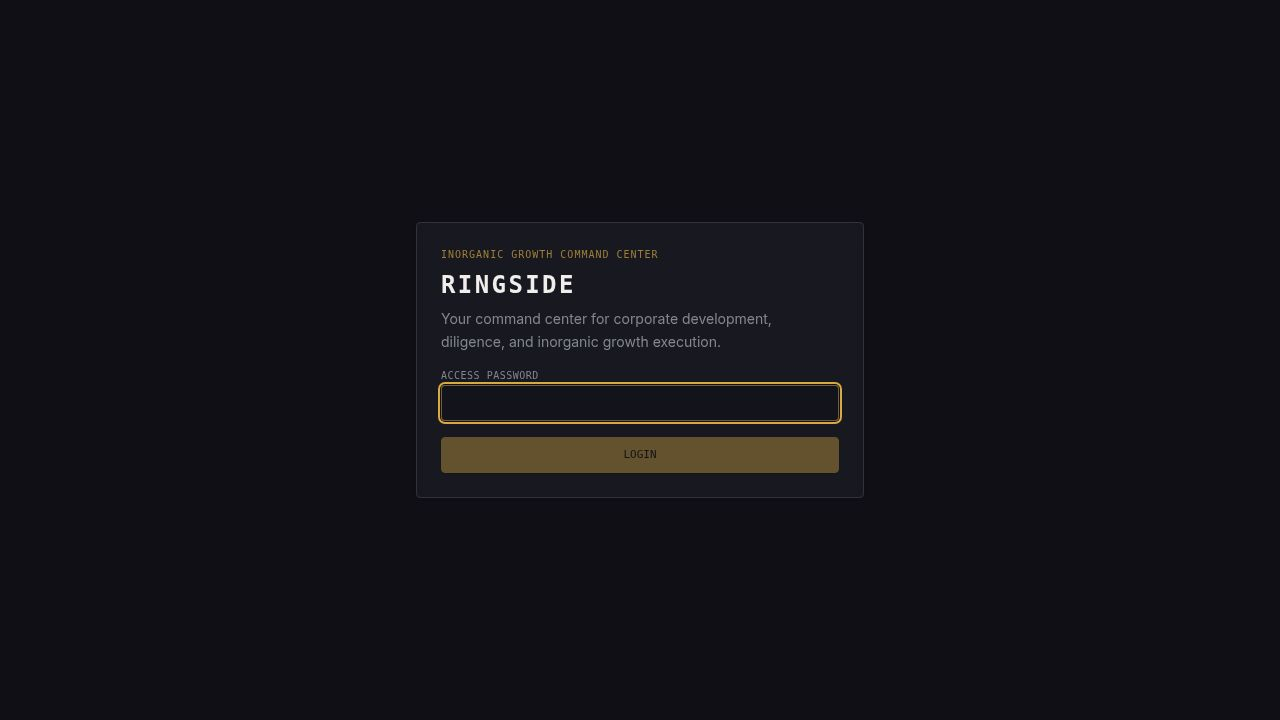
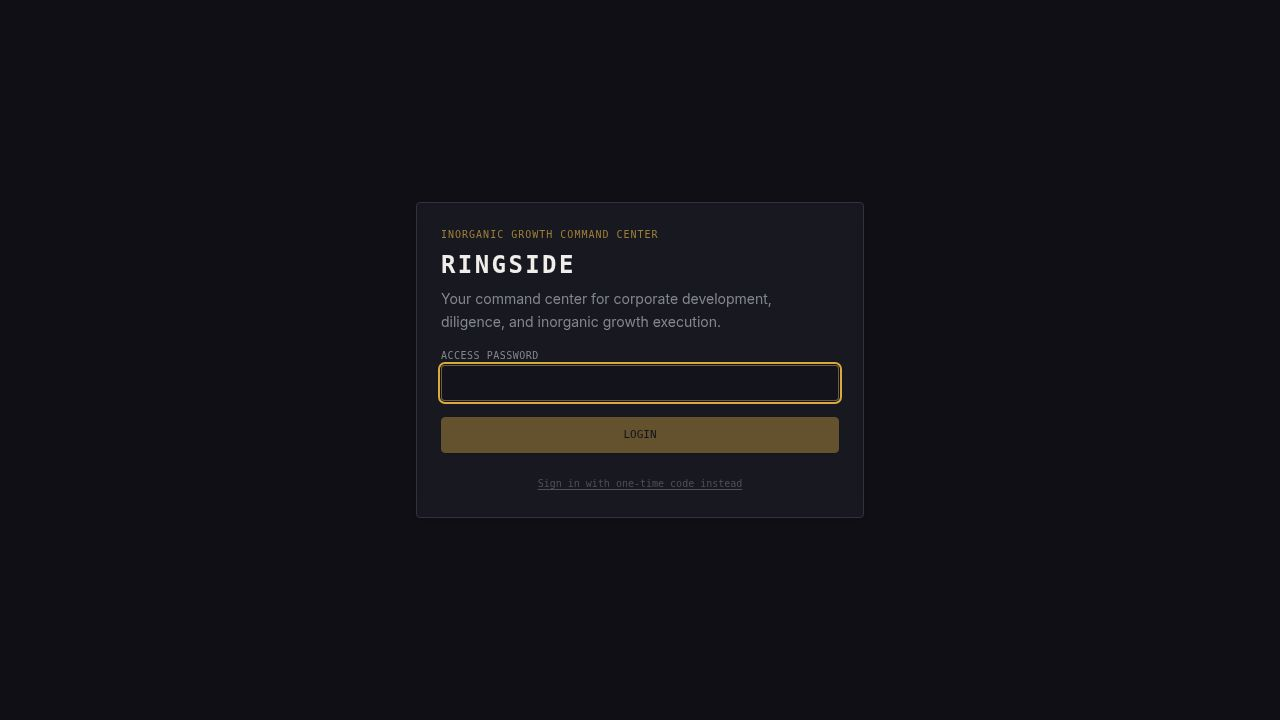
Task #66: NDA Register + Regulatory Clearance Map (Phase 8F) — polish pass
Core feature was already implemented in a prior session. This commit adds
meaningful UX improvements to the Compliance tab (target-detail-compliance.tsx):

## Changes made
- Added `formatDate()` helper: ISO date strings now display as human-readable
  "15 Jan 2024" format throughout NDA Register and Regulatory Clearance Map
- Added `daysFromNow()` helper: precise day counters in urgency badges
  - NDA: "Expires in 7d", "Expires today", "Expired 3d ago"
  - Clearance: "12d overdue" instead of generic "Overdue"
- Added `ndaUrgencyScore()` and `clearanceUrgencyScore()` sort helpers
- NDA list now sorts expired → expiring → active (most urgent items surface first)
- Clearance list now sorts blocked → overdue → pending/filed → cleared/not-required
- Blocked clearances now get distinct red background (vs orange for overdue)
- Expiry date text is colored amber (expiring) or red (expired) for visual emphasis

## Pre-existing (not changed)
- Backend routes: nda-records.ts, regulatory-clearances.ts, targets.ts GET/POST
- DB schema: nda_records and regulatory_clearances tables (startup migration)
- OpenAPI spec: compliance tag, 6 paths, 6 schemas; codegen output
- Frontend: 8th "Compliance" tab in Target Detail, global alert banner, full CRUD dialogs
- useComplianceBadgeCount hook for tab badge

## No deviations
Follow-ups proposed: #90 (NDA expiry notifications), #91 (compliance review page), #92 (export to PDF/Excel)

Replit-Task-Id: b7cb245f-85e5-4646-aebd-d832e9a24b72

Changed region(s): [[0.3438, 0.3056, 0.6562, 0.7028]]

diff --git a/artifacts/growth-os/src/pages/target-detail-compliance.tsx b/artifacts/growth-os/src/pages/target-detail-compliance.tsx
@@ -67,6 +67,32 @@ function isOverdueClearing(item: RegulatoryClearance): boolean {
   return new Date(item.targetClearanceDate) < new Date();
 }
 
+function daysFromNow(dateStr: string | null | undefined): number | null {
+  if (!dateStr) return null;
+  const d = new Date(dateStr);
+  const now = new Date();
+  return Math.round((d.getTime() - now.getTime()) / (1000 * 60 * 60 * 24));
+}
+
+function formatDate(dateStr: string | null | undefined): string {
+  if (!dateStr) return "";
+  const d = new Date(dateStr);
+  return d.toLocaleDateString("en-GB", { day: "numeric", month: "short", year: "numeric" });
+}
+
+function ndaUrgencyScore(nda: NdaRecord): number {
+  if (isExpired(nda.expiryDate) || nda.status === "Expired") return 0;
+  if (isExpiringWithin30Days(nda.expiryDate)) return 1;
+  return 2;
+}
+
+function clearanceUrgencyScore(clr: RegulatoryClearance): number {
+  if (clr.status === "Blocked") return 0;
+  if (isOverdueClearing(clr)) return 1;
+  if (clr.status === "Pending" || clr.status === "Filed") return 2;
+  return 3;
+}
+
 function ndaStatusColor(nda: NdaRecord): string {
   if (isExpired(nda.expiryDate) || nda.status === "Expired") return "destructive";
   if (isExpiringWithin30Days(nda.expiryDate)) return "secondary";
@@ -488,9 +514,10 @@ export function ComplianceTab({ targetId }: ComplianceTabProps) {
             </div>
           ) : (
             <div className="border rounded-lg divide-y divide-border overflow-hidden mt-1">
-              {ndas.map(nda => {
+              {[...ndas].sort((a, b) => ndaUrgencyScore(a) - ndaUrgencyScore(b)).map(nda => {
                 const expiring = isExpiringWithin30Days(nda.expiryDate);
                 const expired  = isExpired(nda.expiryDate) || nda.status === "Expired";
+                const days     = daysFromNow(nda.expiryDate);
                 return (
                   <div key={nda.id} className={`flex items-start gap-3 px-4 py-3 bg-card ${expired ? "bg-destructive/5" : expiring ? "bg-amber-500/5" : ""}`}>
                     <div className="flex-1 min-w-0">
@@ -498,12 +525,27 @@ export function ComplianceTab({ targetId }: ComplianceTabProps) {
                         <span className="font-medium text-sm truncate">{nda.counterparty || "—"}</span>
                         <Badge variant={ndaStatusColor(nda) as "destructive" | "secondary" | "outline"} className="text-xs">{nda.status}</Badge>
                         <Badge variant="outline" className="text-xs">{nda.scope}</Badge>
-                        {expiring && !expired && <Badge className="text-xs bg-amber-500 text-white border-0 gap-1"><Clock size={9} />Expiring in ≤30d</Badge>}
-                        {expired   && <Badge variant="destructive" className="text-xs gap-1"><AlertTriangle size={9} />Expired</Badge>}
+                        {expiring && !expired && days !== null && (
+                          <Badge className="text-xs bg-amber-500 text-white border-0 gap-1">
+                            <Clock size={9} />{days === 0 ? "Expires today" : `Expires in ${days}d`}
+                          </Badge>
+                        )}
+                        {expired && days !== null && (
+                          <Badge variant="destructive" className="text-xs gap-1">
+                            <AlertTriangle size={9} />{Math.abs(days)}d ago
+                          </Badge>
+                        )}
+                        {expired && days === null && (
+                          <Badge variant="destructive" className="text-xs gap-1"><AlertTriangle size={9} />Expired</Badge>
+                        )}
                       </div>
                       <div className="text-xs text-muted-foreground flex flex-wrap gap-x-4 gap-y-0.5">
-                        {nda.effectiveDate && <span>Effective: {nda.effectiveDate}</span>}
-                        {nda.expiryDate    && <span>Expires: {nda.expiryDate}</span>}
+                        {nda.effectiveDate && <span>Effective: {formatDate(nda.effectiveDate)}</span>}
+                        {nda.expiryDate    && (
+                          <span className={expired ? "text-destructive font-medium" : expiring ? "text-amber-700 font-medium" : ""}>
+                            Expires: {formatDate(nda.expiryDate)}
+                          </span>
+                        )}
                         {nda.termMonths    && <span>Term: {nda.termMonths}mo</span>}
                         {nda.docReference  && (
                           <a href={nda.docReference.startsWith("http") ? nda.docReference : undefined}
@@ -557,22 +599,34 @@ export function ComplianceTab({ targetId }: ComplianceTabProps) {
             </div>
           ) : (
             <div className="border rounded-lg divide-y divide-border overflow-hidden mt-1">
-              {clearances.map(clr => {
-                const overdue = isOverdueClearing(clr);
+              {[...clearances].sort((a, b) => clearanceUrgencyScore(a) - clearanceUrgencyScore(b)).map(clr => {
+                const overdue  = isOverdueClearing(clr);
+                const days     = daysFromNow(clr.targetClearanceDate);
                 return (
-                  <div key={clr.id} className={`flex items-start gap-3 px-4 py-3 bg-card ${overdue ? "bg-destructive/5" : ""}`}>
+                  <div key={clr.id} className={`flex items-start gap-3 px-4 py-3 bg-card ${clr.status === "Blocked" ? "bg-destructive/5" : overdue ? "bg-orange-500/5" : ""}`}>
                     <div className="flex-1 min-w-0">
                       <div className="flex flex-wrap items-center gap-2 mb-1">
                         <Badge variant="outline" className="text-xs font-mono">{clr.category}</Badge>
                         <span className={`inline-flex items-center rounded-full px-2 py-0.5 text-xs font-medium border ${clearanceStatusColor(clr.status)}`}>
                           {clr.status}
                         </span>
-                        {overdue && <Badge className="text-xs bg-orange-500 text-white border-0 gap-1"><AlertTriangle size={9} />Overdue</Badge>}
+                        {overdue && days !== null && (
+                          <Badge className="text-xs bg-orange-500 text-white border-0 gap-1">
+                            <AlertTriangle size={9} />{Math.abs(days)}d overdue
+                          </Badge>
+                        )}
+                        {overdue && days === null && (
+                          <Badge className="text-xs bg-orange-500 text-white border-0 gap-1"><AlertTriangle size={9} />Overdue</Badge>
+                        )}
                       </div>
                       {clr.description && <p className="text-sm truncate mb-1">{clr.description}</p>}
                       <div className="text-xs text-muted-foreground flex flex-wrap gap-x-4 gap-y-0.5">
                         {clr.ownerName            && <span>Owner: {clr.ownerName}</span>}
-                        {clr.targetClearanceDate  && <span className={overdue ? "text-destructive font-medium" : ""}>Target: {clr.targetClearanceDate}</span>}
+                        {clr.targetClearanceDate  && (
+                          <span className={overdue ? "text-destructive font-medium" : ""}>
+                            Target: {formatDate(clr.targetClearanceDate)}
+                          </span>
+                        )}
                         {clr.evidenceReference    && (
                           <a href={clr.evidenceReference.startsWith("http") ? clr.evidenceReference : undefined}
                              target="_blank" rel="noopener noreferrer"